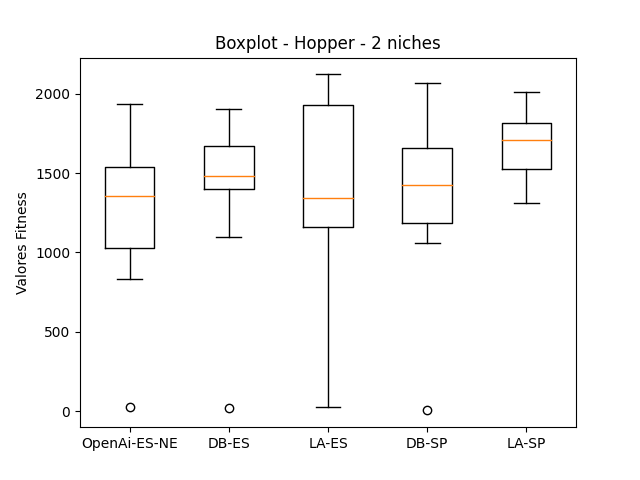
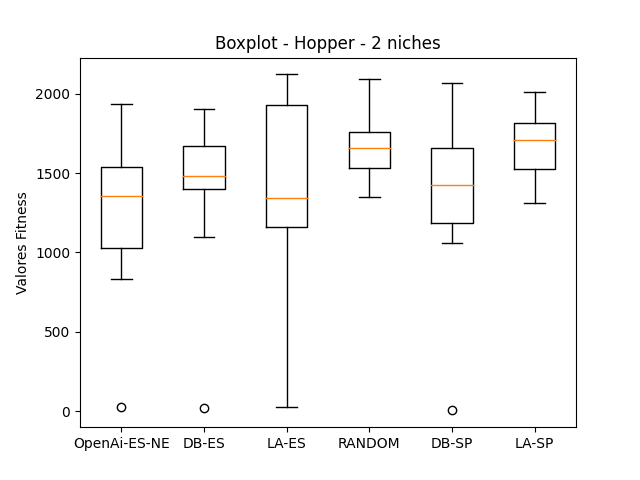
new pos

diff --git a/results/hopper/10_50/boxsplot.py b/results/hopper/10_50/boxsplot.py
@@ -2,19 +2,20 @@ import matplotlib.pyplot as plt
 
 brenda = [1063.09, 1173.03, 1190.32, 1285.13, 912.61 , 1058.03, 967.19 , 1369.74, 1327.43, 1456.71]
 davi = [1301.21, 1374.82, 1257.51, 1099.81, 1751.52, 1408.33, 383.46 , 1103.43, 1367.56, 1380.36]
+random_davi = [850.73 , 1567.06, 1370.19, 938.00 , 1378.25, 1009.34, 1084.27, 1639.83, 380.33 , 1171.17]
 larissa = [1691.02, 1953.19, 1652.34, 1627.58, 1618.62, 1815.49, 1999.38, 1859.27, 2047.88, 2109.81]
 super_davi = [1509.52, 1649.77, 1975.61, 1765.82, 1662.44, 1492.95, 1811.15, 1963.10, 2010.98, 2319.25]
 super_larissa = [1687.19, 1865.10, 2001.02, 2051.33, 1913.84, 1373.45, 1903.17, 2123.76, 1837.16, 2139.66]
 
-data = [brenda,  davi, larissa, super_davi, super_larissa]
+data = [brenda,  davi,random_davi, larissa, super_davi, super_larissa]
 
 fig, ax = plt.subplots()
 ax.boxplot(data)
 
-ax.set_xticklabels(['OpenAi-ES-NE', 'DB-ES', 'LA-ES', 'DB-SP', 'LA-SP'])
+ax.set_xticklabels(['OpenAi-ES-NE', 'DB-ES','Random', 'LA-ES', 'DB-SP', 'LA-SP'])
 ax.set_ylabel('Valores Fitness')
 
 plt.title('Boxplot - Hopper - 10 niches')
 #plt.figure(figsize=)
-plt.savefig('hoppper_10_50.png')
+plt.savefig('hoppper2_10_50.png')
 #plt.show()

diff --git a/results/hopper/2_50/boxsplot.py b/results/hopper/2_50/boxsplot.py
@@ -3,15 +3,16 @@ import matplotlib.pyplot as plt
 brenda = [24.84  , 1281.87, 1192.89, 1588.59, 1523.10, 834.65 , 1425.22, 971.58 , 1938.87, 1545.74]
 davi = [1099.09, 1515.24, 1726.76, 1514.44, 1387.73, 1907.77, 1454.61, 1441.08, 16.06  , 1723.47]
 larissa = [1119.49, 1300.68, 2000.04, 1385.62, 1965.39, 1275.55, 27.38  , 940.57 , 1824.46, 2123.31]
+random_davi = [1574.62, 1522.07, 1906.55, 1698.16, 2092.44, 1349.22, 1441.61, 1721.40, 1620.04, 1775.66]
 super_davi = [1309.40, 1711.05, 1147.97, 1062.49, 1415.73, 1509.84, 3.97   , 1438.10, 2067.40, 1979.26]
 super_larissa = [1311.60, 1339.94, 1525.89, 1794.36, 1528.63, 1721.22, 1823.29, 2009.18, 1831.85, 1693.03]
 
-data = [brenda,  davi, larissa, super_davi, super_larissa]
+data = [brenda,  davi, larissa, random_davi, super_davi, super_larissa]
 
 fig, ax = plt.subplots()
 ax.boxplot(data)
 
-ax.set_xticklabels(['OpenAi-ES-NE', 'DB-ES', 'LA-ES', 'DB-SP', 'LA-SP'])
+ax.set_xticklabels(['OpenAi-ES-NE', 'DB-ES', 'LA-ES', 'RANDOM', 'DB-SP', 'LA-SP'])
 ax.set_ylabel('Valores Fitness')
 
 plt.title('Boxplot - Hopper - 2 niches')
